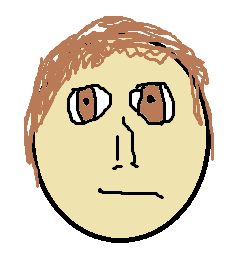
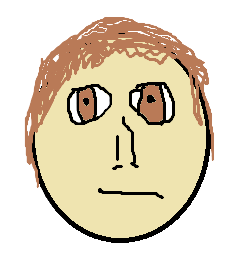
Arreglado todas las imagenes

diff --git a/docs/grupo.md b/docs/grupo.md
@@ -1,7 +1,5 @@
 Hola, somos el grupo de David, Alex y Moha.
 
-![alt text](David.png)
-
-![alt text](Alex.png)
-
-![alt text](Moha.png)
+![alt text](img/David.png)
+![alt text](img/Alex.png)
+![alt text](img/Moha.png)

diff --git a/docs/index.md b/docs/index.md
@@ -1,4 +1,4 @@
-![alt text](logo.png)
+![alt text](img/logo.png)
 
 # Nuestros servicios
 
